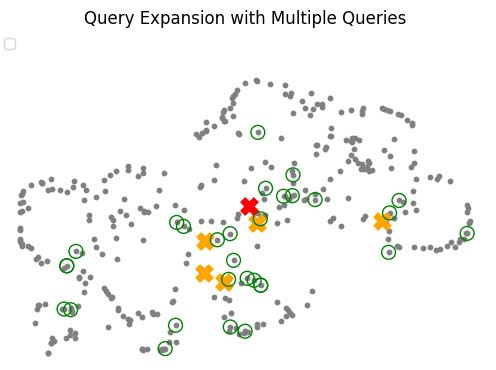
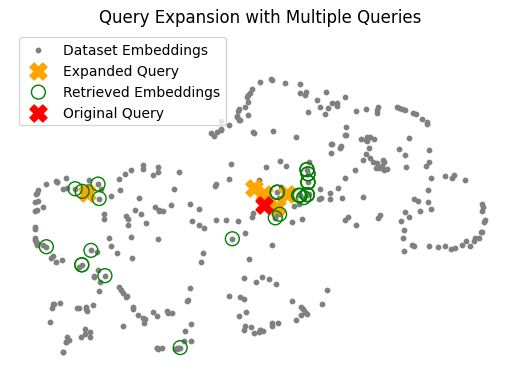
Advanced retrieval v1.0

diff --git a/_posts/2024-05-13-advanced_retrieval.md b/_posts/2024-05-13-advanced_retrieval.md
@@ -1,7 +1,7 @@
 ---
-title: '[DRAFT] Advanced Retrieval for Retrieval-Augmented Generation'
-date: 2024-05-17
-permalink: /posts/2024/05/07/LLM_evals/
+title: 'Advanced Retrieval for Retrieval-Augmented Generation'
+date: 2024-05-21
+permalink: /posts/2024/05/21/LLM_evals/
 tags:
   - LLM
   - safety
@@ -10,13 +10,12 @@ tags:
   - Information Retrieval
 ---
 
-*Disclaimer: I am new to blogging. So, if there are any mistakes, please do let me know. All feedback is warmly appreciated.*
 
-<!-- <p align="center">
-  <img src="/images/3_llm_evals/1.jpg" alt="“LLM EVALS HOW TO BUILD TESTING LARGE LANGUAGE MODELS" />
+<p align="center">
+  <img src="/images/4_advanced retrieval/librarian.png" alt="“LLM EVALS HOW TO BUILD TESTING LARGE LANGUAGE MODELS" />
   <br />
-  <em>Figure 1: AI Generated Image with the prompt "Small person testing an enormous and complex machine in the style of a marvel comic"</em>
-</p> -->
+  <em>Figure 1: AI Generated Image with the prompt "A librarian searching for a book with a really large magnifying glass in an enormous library"</em>
+</p>
 
 
 ## Introduction
@@ -85,7 +84,7 @@ What is the main considerations for an Infomration Retrieval System? The informa
 <p align="center">
   <img src="/images/4_advanced retrieval/2.jpg" alt="" />
   <br />
-  <em>Figure 3: UMAP 2D Projection of an In scope query</em>
+  <em>Figure 3: UMAP Projection of an In scope query</em>
 </p>
 
 One might notice that the points on the 2D visualization don’t always align perfectly with their nearest neighbors in the original high-dimensional space. This discrepancy arises because the embedding model used lacks specific knowledge of the tasks or queries it’s being applied to. Thus, retrieving information for specific tasks can be more challenging when relying solely on a general representation.
@@ -107,20 +106,20 @@ In summary, while simple vector searches provide a foundational approach to retr
 
 Information retrieval has long been a crucial subfield of natural language processing (NLP), with numerous approaches developed to enhance the relevancy of query results. The advent of large language models (LLMs) has introduced powerful tools to augment and refine the queries sent to vector databases, significantly improving the quality of the results. In this section, we'll explore two main types of query expansion: expansion with generated answers and query expansion with multiple queries.
 
-### Query Expansion
+### Query Expansion with Example Answers
 
-https://arxiv.org/abs/2305.03653
+A novel approach to query expansion involves using LLMs to generate hypothetical or imagined responses to the initial query. This method leverages the model's ability to create contextually rich content, which can then be used to improve the retrieval process. For full details please refer to the [original paper](https://arxiv.org/abs/2305.03653).
 
-
-
-A novel approach to query expansion involves using LLMs to generate hypothetical or imagined responses to the initial query. This method leverages the model's ability to create contextually rich content, which can then be used to improve the retrieval process.
-
-[INSERT IMAGE TO UNDERSTAND ARCHITECTURE]
+<p align="center">
+  <img src="/images/4_advanced retrieval/Query Expansion with Generated Answers.png" alt="" />
+  <br />
+  <em>Figure 5: Query Expansion using Example Answers</em>
+</p>
 
 #### How It Works: 
-1. Generate a Response: Take the original query and prompt the LLM to generate a hypothetical answer. For example, you might use a prompt like: "You are an expert helpful financial research assistant. Provide an example answer to the given question, that might be found in a document like an annual report."
-2. Concatenate and Query: Combine the original query with the generated response and use this expanded query to search the vector database.
-3. Retrieve Results: Perform the retrieval as usual, but with the enhanced query.
+1. **Generate a Response**: Take the original query and prompt the LLM to generate a hypothetical answer. For example, you might use a prompt like: "You are an expert helpful financial research assistant. Provide an example answer to the given question, that might be found in a document like an annual report."
+2. **Concatenate and Query**: Combine the original query with the generated response and use this expanded query to search the vector database.
+3. **Retrieve Results**: Perform the retrieval as usual, but with the enhanced query.
 
 Please see below a code snippet to help you expand queries in your projects:
 
@@ -157,7 +156,7 @@ our corporate objectives.`
 <p align="center">
   <img src="/images/4_advanced retrieval/4.jpg" alt="" />
   <br />
-  <em>Figure 5: UMAP 2D Projection of Query Expansion</em>
+  <em>Figure 6: UMAP 2D Projection of Query Expansion with Example/Generated Answers</em>
 </p>
 
 The figure above illustrates this process: the red X represents the original query, while the orange X signifies the query with the hallucinated response (i.e. the expanded query). The geometrical proximity of the expanded query to the relevant information highlights why this method can extract more contextually appropriate results. The key takeaway from the figure below is that providing an expanded query with additional details about the desired format of the retrieved information can significantly alter the embedding from the original query to the expanded one.
@@ -167,12 +166,16 @@ In summary, by using an LLM to generate a plausible answer to the query, you can
 ### Query Expansion with Multiple Queries
 Another effective method of query expansion involves generating multiple related queries using an LLM. This approach diversifies the search and increases the likelihood of retrieving comprehensive information relevant to the original query.
 
-[INSERT IMAGE TO UNDERSTAND ARCHITECTURE]
+<p align="center">
+  <img src="/images/4_advanced retrieval/Query Expansion with Multiple Queries.png" alt="" />
+  <br />
+  <em>Figure 7:  Query Expansion with Multiple Queries</em>
+</p>
 
 #### How It Works:
-1. Generate Additional Queries: Prompt the LLM to suggest additional related questions. For instance: "You are a helpful expert financial research assistant. Your users are asking questions about an annual report. Suggest up to five additional related questions to help them find the information they need, for the provided question. Suggest only short questions without compound sentences. Suggest a variety of questions that cover different aspects of the topic. Make sure they are complete questions, and that they are related to the original question. Output one question per line. Do not number the questions."
-2. Retrieve Results: Use the original query and the additional queries to retrieve results from the vector database.
-3. Aggregate and Process: Send all retrieved responses to the LLM for further processing.
+1. **Generate Additional Queries**: Prompt the LLM to suggest additional related questions. For instance: "You are a helpful expert financial research assistant. Your users are asking questions about an annual report. Suggest up to five additional related questions to help them find the information they need, for the provided question. Suggest only short questions without compound sentences. Suggest a variety of questions that cover different aspects of the topic. Make sure they are complete questions, and that they are related to the original question. Output one question per line. Do not number the questions."
+2. **Retrieve Results**: Use the original query and the additional queries to retrieve results from the vector database.
+3. **Aggregate and Process**: Send all retrieved responses to the LLM for further processing.
 
 ```python
 def augment_multiple_query(query, model="gpt-3.5-turbo"):
@@ -203,12 +206,12 @@ The figure below illustrates this process: the red X represents the original que
 <p align="center">
   <img src="/images/4_advanced retrieval/5.jpg" alt="" />
   <br />
-  <em>Figure 6: UMAP 2D Projection of Query Expansion with Multiple Queries</em>
+  <em>Figure 8: UMAP 2D Projection of Query Expansion with Multiple Queries</em>
 </p>
 
 #### Considerations
-- Prompt Engineering: Crafting effective prompts is crucial as they become more complex and lengthy.
-- Redundancy: Multiple queries might retrieve overlapping information chunks from your vector database. It’s essential to manage and filter these to avoid redundancy.
+- **Prompt Engineering**: Crafting effective prompts is crucial as they become more complex and lengthy.
+- **Redundancy**: Multiple queries might retrieve overlapping information chunks from your vector database. It’s essential to manage and filter these to avoid redundancy.
 
 
 In summary, query expansion techniques, whether through generated answers or multiple related queries, significantly improve the effectiveness of retrieval-augmented generation systems. By leveraging the capabilities of LLMs, we can refine our search queries, leading to more accurate and contextually relevant results.
@@ -233,7 +236,11 @@ We want to obtain more retrieved embeddings from our VectorDB, for example we ma
 
 Unlike bi-encoders, which process sequences separately, cross-encoders process two input sequences together as a single input. This allows the model to directly compare and contrast the inputs, leading to a more integrated and nuanced understanding of their relationship.
 
-[CROSS ENCODER IMAGE]
+<p align="center">
+  <img src="/images/4_advanced retrieval/Cross-encoders.png" alt="" />
+  <br />
+  <em>Figure 9: Bi-encoder vs. Cross-encoder to generate </em>
+</p>
 
 ### Re-ranking with Query Expansion
 
@@ -252,7 +259,7 @@ for document in results['documents'][0]:
     print('')
 ```
 
-Then, use a Cross-Encoder to predict scores for each retrieved chunk of information. Re-rank the chunks based on the scores given and discard any chunks which are not contextually relevant to the prompt.
+Then, use a Cross-Encoder to predict scores for each retrieved chunk of information with the query. Re-rank the chunks based on the scores given and discard any chunks which are not contextually relevant to the prompt.
 
 ```python
 from sentence_transformers import CrossEncoder
@@ -286,8 +293,13 @@ By combining cross-encoder re-ranking with query expansion, retrieval-augmented 
 
 Another key method for enhancing the quality of retrieval systems is through the use of Embedding Adaptors. By leveraging user feedback on the relevancy of retrieved results, we can significantly enhance the performance of retrieval systems. Let's delve into how this process works and how you can implement it using PyTorch.
 
-An Embedding Adaptor is a transformation that is applied to your word embedding for your query. The main idea behind this is that you apply this transformation to your query embedding just after it is outputted from the embedding model, and before you execute your similarity search between your query and Vector Database. 
+An Embedding Adaptor is a transformation that is applied to your word embedding for your query. The main idea behind this is that you apply this transformation to your query embedding just after it is outputted from the embedding model, and before you execute your similarity search between your query and Vector Database as shown in the pipeline diagram below.
 
+<p align="center">
+  <img src="/images/4_advanced retrieval/embedding adaptor.png" alt="" />
+  <br />
+  <em>Figure 10: Embedding Adaptor</em>
+</p>
 
 ### Preparing the dataset
 
@@ -371,11 +383,17 @@ The adaptor matrix plays a cruicial role in refining the query vector and emphas
 - Dimensional Emphasis: The transformation that the Embedding Adaptor Matrix applies emphasizes the dimensions that are most relevant to the query and diminishes those that are less relevant (based on user feedback), thereby tailoring the feature vectors to improve retrieval accuracy.
 
 <p align="center">
-  <img src="/images/4_advanced retrieval/6.jpg" alt="" />
+  <img src="/images/4_advanced retrieval/6.png" alt="" />
   <br />
-  <em>Figure 7: Embedding Adaptor Matrix Visualised</em>
+  <em>Figure 11: Embedding Adaptor Matrix Visualised</em>
 </p>
 
-By implementing embedding adaptors, you can create a more responsive and accurate retrieval system that learns and adapts based on user feedback. This method not only enhances the relevance of retrieved results but also ensures that your system evolves continuously to meet user needs.
+By implementing embedding adaptors, you can create a more responsive and accurate retrieval system that learns and adapts based on user feedback. This method not only enhances the relevance of retrieved results but also ensures that your system evolves continuously to meet user needs. As shown in the figure below, the original query embeddings are more scattered and the adapted queries are more concentrated. This is indicative that the adaptive query embeddings have clustered nearby areas of the vector database that are more relevant. This demonstrates how embedding adaptors are simple but powerful techniques for customizing query embeddings for a particular use case based and can utilise feedback from your application. 
+
+<p align="center">
+  <img src="/images/4_advanced retrieval/embedadapt_scatter.JPG" alt="" />
+  <br />
+  <em>Figure 12: Embedding Adaptor Matrix Visualised</em>
+</p>
 
 Incorporate these steps and insights into your AI projects to witness a significant boost in performance and user satisfaction.
